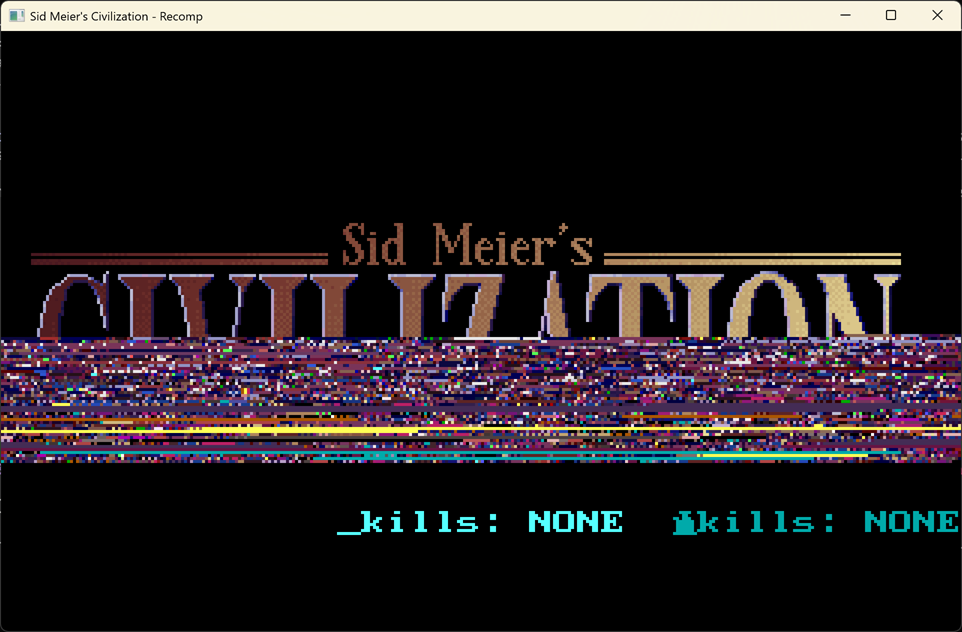
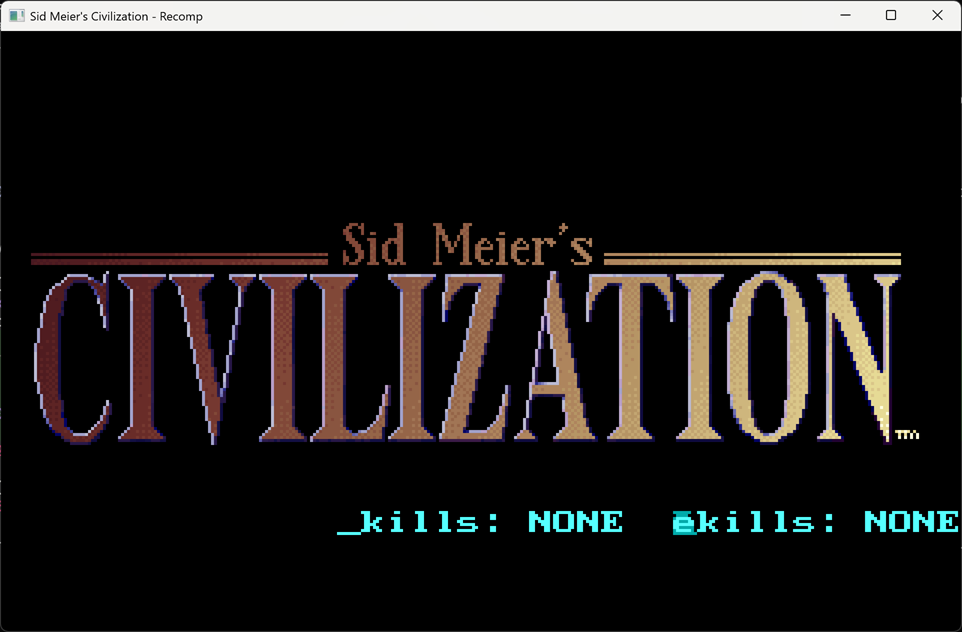
README: clean title screenshot; wire SDL mouse into the game's mouse vars
- Replace the README screenshot with a clean, pixel-perfect "Sid Meier's
  CIVILIZATION" title capture (the dict-reset LZW fix decodes it correctly now)
  and update the caption.
- Wire the host SDL mouse into the game's DGROUP mouse state. The game's mouse
  ISR (registered via INT 33h 0x0C) normally maintains [0x581E]/[0x5820] (pos),
  [0x5822] (buttons) and the click latch [0x5824] on mouse events, but the
  recomp doesn't run the ISR. Populate them from dos->mouse inside far_01A7_0225
  (the menu's mouse-snapshot), with a sticky button-down latch (MouseState.clicked,
  set in the SDL poll loop) so single clicks aren't missed. This connects mouse
  position + clicks to the menus / map.

Note: the composed menu screens still render with a wrong palette (mostly white
with black sprite boxes) and clicking a menu item advances into a setup screen
that isn't finished — so the game isn't yet mouse-playable end to end. A local
(gitignored res_01D221) guard against the menu's idiv-by-zero on click is the
next thing to make permanent (via the lifter).

diff --git a/RecompiledFuncs/civ_impl.c b/RecompiledFuncs/civ_impl.c
@@ -348,6 +348,23 @@ void far_0000_16C6(CPU *cpu)
  * EA6E=[0x5820]; else zero all three. */
 void far_01A7_0225(CPU *cpu)
 {
+    /* Wire the host SDL mouse into the game's DGROUP mouse vars. The game's mouse
+     * ISR (registered via INT 33h 0x0C) normally maintains these on mouse events,
+     * but the recomp doesn't run the ISR — so populate them here from dos->mouse
+     * (position [0x581E]/[0x5820], button state [0x5822], and the sticky
+     * button-down latch into [0x5824] so single clicks aren't missed). This makes
+     * the menus / map clickable. */
+    {
+        DosState *dos = get_dos_state(cpu);
+        mem_write16(cpu, cpu->ds, 0x581E, (uint16_t)dos->mouse.x);
+        mem_write16(cpu, cpu->ds, 0x5820, (uint16_t)dos->mouse.y);
+        mem_write16(cpu, cpu->ds, 0x5822, dos->mouse.buttons);
+        if (dos->mouse.clicked) {
+            mem_write16(cpu, cpu->ds, 0x5824,
+                        (uint16_t)(mem_read16(cpu, cpu->ds, 0x5824) | dos->mouse.clicked));
+            dos->mouse.clicked = 0;
+        }
+    }
     if (mem_read16(cpu, cpu->ds, 0x1A3C) != 0) {
         push16(cpu, cpu->cs); push16(cpu, 0);
         far_0000_16C6(cpu);                       /* ax = mouse-click latch */

diff --git a/src/platform/sdl_platform.c b/src/platform/sdl_platform.c
@@ -189,10 +189,12 @@ void platform_poll_events(Platform *plat, DosState *dos)
             if (e.button.button == SDL_BUTTON_LEFT)   mask = 0x01;
             if (e.button.button == SDL_BUTTON_RIGHT)  mask = 0x02;
             if (e.button.button == SDL_BUTTON_MIDDLE) mask = 0x04;
-            if (e.type == SDL_MOUSEBUTTONDOWN)
+            if (e.type == SDL_MOUSEBUTTONDOWN) {
                 btn |= mask;
-            else
+                dos->mouse.clicked |= mask;   /* latch the button-down edge */
+            } else {
                 btn &= ~mask;
+            }
             dos->mouse.buttons = btn;
             break;
         }

diff --git a/include/hal/input.h b/include/hal/input.h
@@ -29,6 +29,7 @@ typedef struct {
     int16_t  x;
     int16_t  y;
     uint16_t buttons;       /* bit 0 = left, bit 1 = right, bit 2 = middle */
+    uint16_t clicked;       /* button-down edge latch (sticky until consumed) */
     int      visible;
     int16_t  min_x, max_x;
     int16_t  min_y, max_y;

diff --git a/README.md b/README.md
@@ -7,9 +7,9 @@
 
 ![Civilization title screen running natively via static recompilation](docs/screenshots/title.png)
 
-*The recompiled title screen running natively on Windows 11 — the full intro
-(logo → birth → credits in color) plays, then the menu builds from `king.txt`,
-and New Game drives world generation, the sprite-sheet decode, and the
+*The recompiled "Sid Meier's CIVILIZATION" title, decoded pixel-perfect and
+running natively on Windows 11. The full intro (logo → birth → credits, in color)
+plays, then New Game drives world generation, the sprite-sheet decode, and the
 civilization-select screen.*
 
 ---
